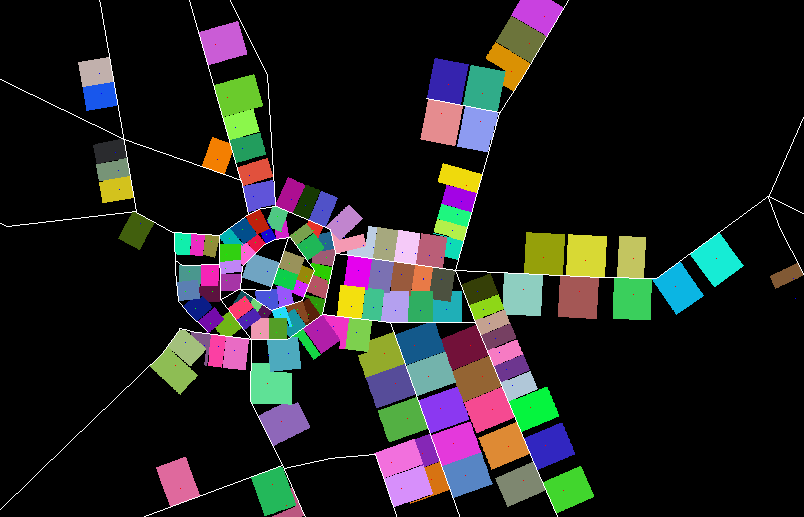
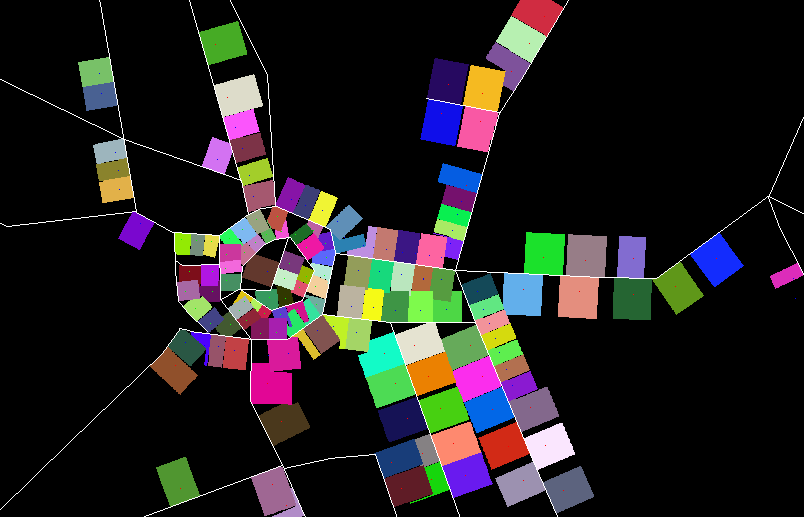
0801

diff --git a/parcel_v2.py b/parcel_v2.py
@@ -1,13 +1,382 @@
 import numpy as np
 import cv2
+from numpy.random import random
 
 
-# 0: Land, 1: Road, 3: Building, 4:Occupied 5: Unavailable
+# 0: Land, 1: Road, 3x: Building, 4:Occupied
 Landmarks: np.ndarray
-Buildings: []
+Buildings = []
+
+
+def load_data_from_png(path):
+    global Landmarks
+
+    img = cv2.imread(path)
+    Landmarks = np.zeros((img.shape[1], img.shape[0]), np.uint8)
+    for x in range(img.shape[1]):
+        for y in range(img.shape[0]):
+            if img[y, x, 0] == 255 and img[y, x, 1] == 0 and img[y, x, 2] == 0:
+                Landmarks[x, y] = 1
+            elif img[y, x, 0] == 0 and img[y, x, 1] == 0 and img[y, x, 2] == 255:
+                Landmarks[x, y] = 3
+            # if img[y, x, 0] == 0 and img[y, x, 1] == 255 and img[y, x, 2] == 0:
+            #     Landmarks[x, y] = 31
+            # elif img[y, x, 0] == 255 and img[y, x, 1] == 0 and img[y, x, 2] == 0:
+            #     Landmarks[x, y] = 32
+            # elif img[y, x, 0] == 0 and img[y, x, 1] == 0 and img[y, x, 2] == 255:
+            #     Landmarks[x, y] = 32
+            # elif img[y, x, 0] == 255 and img[y, x, 1] == 255 and img[y, x, 2] == 255:
+            #     Landmarks[x, y] = 1
+
+
+def GetNodesInRadius(Node, Radius, Type):
+    Result = []
+    DRadius = Radius + 0.3
+    IRadius = int(Radius)
+    CentralCol, CentralRow = Node
+
+    for Row in range(CentralRow - IRadius if CentralRow - IRadius > 0 else 0,
+                     CentralRow + IRadius + 1 if CentralRow + IRadius < Landmarks.shape[1] else Landmarks.shape[1]):
+        RowHalfLength = int(np.sqrt(DRadius * DRadius - (Row - CentralRow) * (Row - CentralRow)))
+        for Col in range(CentralCol - RowHalfLength if CentralCol - RowHalfLength > 0 else 0,
+                         CentralCol + RowHalfLength + 1 if CentralCol + RowHalfLength < Landmarks.shape[0] else
+                         Landmarks.shape[0]):
+            if Landmarks[Col, Row] == Type:
+                Result.append([Col, Row])
+
+    return Result
+
+
+def GetNearestNode(Node, Nodes):
+    MinDistance = 100000.0
+    MinNode = [-1, -1]
+    if len(Nodes) == 0:
+        return MinNode
+    for Col, Row in Nodes:
+        D = Distance(Node, [Col, Row])
+        if D < MinDistance:
+            MinDistance = D
+            MinNode = [Col, Row]
+    return MinNode
+
+
+def Magnitude(Node):
+    return np.sqrt(Node[0] * Node[0] + Node[1] * Node[1])
+
+
+def Normalize(Node):
+    m = Magnitude(Node)
+    return [Node[0] / m, Node[1] / m]
+
+
+def Distance(Node1, Node2):
+    return np.sqrt((Node1[0] - Node2[0]) * (Node1[0] - Node2[0]) +
+                   (Node1[1] - Node2[1]) * (Node1[1] - Node2[1]))
+
+
+def Average(Nodes):
+    if len(Nodes) == 0:
+        return [0, 0]
+    return [sum([x for x, _ in Nodes]) / len(Nodes), sum([y for _, y in Nodes]) / len(Nodes)]
+
+
+def Get8Neighbors(Node):
+    global Landmarks
+    x, y = Landmarks.shape
+    if 0 < Node[0] < x - 1 and 0 < Node[1] < y - 1:
+        return np.array([[Node[0] - 1, Node[1] - 1], [Node[0], Node[1] - 1], [Node[0] + 1, Node[1] - 1],
+                         [Node[0] - 1, Node[1]], [Node[0] + 1, Node[1]],
+                         [Node[0] - 1, Node[1] + 1], [Node[0], Node[1] + 1], [Node[0] + 1, Node[1] + 1]])
+    return np.array([])
+
+
+def Get4Neighbors(Node):
+    global Landmarks
+    x, y = Landmarks.shape
+    if 0 < Node[0] < x - 1 and 0 < Node[1] < y - 1:
+        return np.array(
+            [[Node[0] - 1, Node[1]], [Node[0] + 1, Node[1]], [Node[0], Node[1] - 1], [Node[0], Node[1] + 1]])
+    return np.array([])
+
+
+def CheckIndex(Node):
+    global Landmarks
+    return 0 <= Node[0] < Landmarks.shape[0] and 0 <= Node[1] < Landmarks.shape[1]
+
+
+def GetEndNodes(Nodes, Direction):
+    Center = Average(Nodes)
+    Result = []
+    for Node in Nodes:
+        diff = [Node[0] - Center[0], Node[1] - Center[1]]
+        factor = diff[0] * Direction[0] + diff[1] * Direction[1]
+        Result.append([Node, factor])
+    Result.sort(key=lambda x: x[1])
+    return Result[0][0], Result[-1][0]
+
+
+def LeastSquareLineFitting(Nodes):
+    n = len(Nodes)
+
+    sum_x = sum([x for x, _ in Nodes])
+    sum_x2 = sum([x * x for x, _ in Nodes])
+    p = n * sum_x2 - sum_x * sum_x
+    if p == 0:
+        return [1, 0], 1
+
+    sum_y = sum([y for _, y in Nodes])
+    sum_y2 = sum([y * y for _, y in Nodes])
+    q = n * sum_y2 - sum_y * sum_y
+    if q == 0:
+        return [0, 1], 1
+
+    sum_xy = sum([x * y for x, y in Nodes])
+    r = n * sum_xy - sum_x * sum_y
+    range_x = max([x for x, _ in Nodes]) - min([x for x, _ in Nodes])
+    range_y = max([y for _, y in Nodes]) - min([y for _, y in Nodes])
+    if range_x > range_y:
+        return Normalize([-r/p, 1]), r / p * r / q
+    else:
+        return Normalize([-1, r/q]), r / p * r / q
 
 
 class Building:
-    def __init__(self, id, points):
-        self.id = id
-        self.points = points
+    def __init__(self, Index, Radius, Center):
+        self.Index = Index
+        self.Radius = Radius
+        self.Center = Center
+        self.Nodes = []
+
+        self.__Direction = [0, 1]
+
+        self.__RoadRootNode = [-1, -1]
+        self.__RoadEndNodes = [[-1, -1], [-1, -1]]
+        self.__RoadConqueredDist = [0, 0]
+        self.__RoadTerminalDist = 0
+        self.__RoadEndFlag = [False, False]
+
+        self.__RegionStartNum = 0
+        self.__RegionDirection = [0, 1]
+        self.__RegionConqueredDist = []
+        self.__RegionTerminalDist = []
+        self.__RegionEndFlag = []
+
+    def RoadConquestEnds(self):
+        return self.__RoadEndFlag[0] and self.__RoadEndFlag[1]
+
+    def __RoadConquestCheckDirection(self, Node):
+        Diff = [Node[0] - self.__RoadRootNode[0], Node[1] - self.__RoadRootNode[1]]
+        Factor = Diff[0] * self.__Direction[0] + Diff[1] * self.__Direction[1]
+        return abs(Factor) < 2.5
+
+    def __RoadConquestCheckOcclusion(self, Node, OccupiedMap: dict):
+        global Landmarks
+
+        for i in range(1, int(self.__RoadTerminalDist) // 2):
+            CheckNode = [round(Node[0] + self.__Direction[0] * i),
+                         round(Node[1] + self.__Direction[1] * i)]
+            if CheckIndex(CheckNode) and Landmarks[CheckNode[0], CheckNode[1]] == 4 \
+                    and OccupiedMap[CheckNode[0], CheckNode[1]] != self.Index:
+                return True
+        return False
+
+    def RoadConquestInit(self, OccupiedMap: dict):
+        global Landmarks
+
+        RoadNodes = GetNodesInRadius(self.Center, self.Radius, 1)
+        if len(RoadNodes) == 0:
+            return True
+
+        NearestNode = GetNearestNode(self.Center, RoadNodes)
+        self.__Direction = Normalize([self.Center[0] - NearestNode[0], self.Center[1] - NearestNode[1]])
+        Abs_Dir = [abs(self.__Direction[0]), abs(self.__Direction[1])]
+        self.__RoadTerminalDist = self.Radius * np.sqrt(1 + np.square(min(Abs_Dir[0], Abs_Dir[1])
+                                                                      / max(Abs_Dir[0], Abs_Dir[1])))
+        self.__RoadRootNode = [round(NearestNode[0] + self.__Direction[0]), round(NearestNode[1] + self.__Direction[1])]
+
+        if Landmarks[self.__RoadRootNode[0], self.__RoadRootNode[1]] != 0:
+            return True
+
+        self.__RoadEndNodes[0] = self.__RoadEndNodes[1] = self.__RoadRootNode
+        self.Nodes.append(self.__RoadRootNode)
+        Landmarks[self.__RoadRootNode[0], self.__RoadRootNode[1]] = 4
+        OccupiedMap[self.__RoadRootNode[0], self.__RoadRootNode[1]] = self.Index
+        return False
+
+    def __RoadConquestStep1(self, EndNodeIndex,  OccupiedMap: dict):
+        global Landmarks
+
+        # grow along the road
+        CurrentNode = self.__RoadEndNodes[EndNodeIndex]
+        Neighbors4 = Get4Neighbors(CurrentNode)
+        Node = [-1, -1]
+        for Neighbor in Neighbors4:
+            if Landmarks[Neighbor[0], Neighbor[1]] == 0:
+                Neighbors8 = Get8Neighbors(Neighbor)
+                if len(Neighbors8) > 0 and np.any(Landmarks[Neighbors8[:, 0], Neighbors8[:, 1]] == 1):
+                    Node = Neighbor
+                    break
+        if Node[0] == -1 or not self.__RoadConquestCheckDirection(Node) \
+                or self.__RoadConquestCheckOcclusion(Node, OccupiedMap):
+            return True
+
+        self.Nodes.append(Node)
+        Landmarks[Node[0], Node[1]] = 4
+        OccupiedMap[Node[0], Node[1]] = self.Index
+        self.__RoadEndNodes[EndNodeIndex] = Node
+        self.__RoadConqueredDist[EndNodeIndex] += 1
+
+        if self.__RoadConqueredDist[EndNodeIndex] < int(self.__RoadTerminalDist):
+            return False
+        return True
+
+    def RoadConquestStepN(self, N, OccupiedMap: dict):
+        global Landmarks
+
+        if len(self.Nodes) == 0:
+            return
+
+        for _ in range(N):
+            if not self.__RoadEndFlag[0]:
+                self.__RoadEndFlag[0] = self.__RoadConquestStep1(0, OccupiedMap)
+            if not self.__RoadEndFlag[1]:
+                self.__RoadEndFlag[1] = self.__RoadConquestStep1(1, OccupiedMap)
+            if self.__RoadEndFlag[0] and self.__RoadEndFlag[1]:
+                break
+
+    def RegionConquestEnds(self):
+        return np.all(self.__RegionEndFlag)
+
+    def RegionConquestInit(self):
+        global Landmarks
+
+        self.__RegionEndFlag = [False for _ in self.Nodes]
+        self.__RegionConqueredDist = [0 for _ in self.Nodes]
+        self.__Direction, _ = LeastSquareLineFitting(self.Nodes)
+        self.__RegionStartNum = len(self.Nodes)
+
+        # check if the direction should be reversed
+        Check = np.array([[round(Col + self.__Direction[0]), round(Row + self.__Direction[1])]
+                          for Col, Row in self.Nodes])
+        if np.any(Landmarks[Check[:, 0], Check[:, 1]] == 1):
+            self.__Direction = [-self.__Direction[0], -self.__Direction[1]]
+
+        Center = Average(self.Nodes)
+        self.__RegionTerminalDist = [round(self.Radius * 2 + ((Center[0] - Col) * self.__Direction[0] +
+                                                              (Center[1] - Row) * self.__Direction[1]))
+                                     for Col, Row in self.Nodes]
+
+        return False
+
+    def __RegionConquestStep1(self, EndNodeIndex, OccupiedMap: dict):
+        global Landmarks, img, color
+
+        Length = self.__RegionConqueredDist[EndNodeIndex] + 1
+        Node = [round(self.Nodes[EndNodeIndex][0] + self.__Direction[0] * Length),
+                round(self.Nodes[EndNodeIndex][1] + self.__Direction[1] * Length)]
+        if not CheckIndex(Node):
+            return True
+
+        if Landmarks[Node[0], Node[1]] == 0:
+            self.Nodes.append(Node)
+            Landmarks[Node[0], Node[1]] = 4
+            OccupiedMap[Node[0], Node[1]] = self.Index
+            self.__RegionConqueredDist[EndNodeIndex] += 1
+            img[Node[1], Node[0]] = color[self.__RegionConqueredDist[EndNodeIndex]]
+
+            # avoid crossing the road
+            Neighbors4 = Get4Neighbors(Node)
+            if len(Neighbors4) > 0 and np.sum(Landmarks[Neighbors4[:, 0], Neighbors4[:, 1]] == 1) > 1:
+                return True
+        elif Landmarks[Node[0], Node[1]] == 3 or \
+                (Landmarks[Node[0], Node[1]] == 4 and OccupiedMap[Node[0], Node[1]] == self.Index):
+            self.__RegionConqueredDist[EndNodeIndex] += 1
+        else:
+            return True
+
+        if self.__RegionConqueredDist[EndNodeIndex] < self.__RegionTerminalDist[EndNodeIndex]:
+            return False
+        return True
+
+    def RegionConquestStepN(self, N, OccupiedMap: dict):
+        global Landmarks
+
+        if len(self.Nodes) == 0:
+            return
+
+        for _ in range(N):
+            for i in range(self.__RegionStartNum):
+                if not self.__RegionEndFlag[i]:
+                    self.__RegionEndFlag[i] = self.__RegionConquestStep1(i, OccupiedMap)
+            if np.all(self.__RegionEndFlag):
+                break
+
+
+def RoadConquest(OccupiedMap: dict):
+    global Landmarks
+
+    EndFlag = [False for _ in Buildings]
+    for Building in Buildings:
+        EndFlag[Building.Index] = Building.RoadConquestInit(OccupiedMap)
+
+    while True:
+        for Building in Buildings:
+            if not EndFlag[Building.Index]:
+                Building.RoadConquestStepN(1, OccupiedMap)
+                EndFlag[Building.Index] = Building.RoadConquestEnds()
+        if np.all(EndFlag):
+            break
+
+
+def RegionConquest(OccupiedMap: dict):
+    global Landmarks, img, color
+
+    EndFlag = [False for _ in Buildings]
+    for Building in Buildings:
+        EndFlag[Building.Index] = Building.RegionConquestInit()
+
+    # for Key, Value in hashmap.items():
+    #     img[Key[1], Key[0]] = color[Value]
+    # cv2.imshow('img', cv2.resize(img, (img.shape[1] * 5, img.shape[0] * 5), interpolation=cv2.INTER_NEAREST))
+    # cv2.waitKey(0)
+
+    while True:
+        for Building in Buildings:
+            if not EndFlag[Building.Index]:
+                Building.RegionConquestStepN(1, OccupiedMap)
+                EndFlag[Building.Index] = Building.RegionConquestEnds()
+                # cv2.imshow('img', cv2.resize(img, (img.shape[1] * 5, img.shape[0] * 5), interpolation=cv2.INTER_NEAREST))
+                # cv2.waitKey(0)
+        if np.all(EndFlag):
+            break
+
+
+if __name__ == '__main__':
+    file = 'parcel.png'
+    load_data_from_png(file)
+    img = cv2.imread(file)
+    hashmap = dict()
+
+    buildings = np.where(Landmarks == 3)
+    size = len(buildings[0])
+    color = [np.uint8([random() * 255, random() * 255, random() * 255]) for i in range(size)]
+
+    radius = 15
+    target = range(size)
+    # target = [48]
+    for i, x in enumerate(target):
+        Buildings.append(Building(i, radius, [buildings[0][x], buildings[1][x]]))
+
+    RoadConquest(hashmap)
+    RegionConquest(hashmap)
+
+    for Key, Value in hashmap.items():
+        img[Key[1], Key[0]] = color[Value]
+
+    # for Building in Buildings:
+    #     for Node in Building.Nodes:
+    #         img[Node[1], Node[0]] = color[Building.Index]
+
+    img = cv2.resize(img, (img.shape[1] * 5, img.shape[0] * 5), interpolation=cv2.INTER_NEAREST)
+    cv2.imshow('img', img)
+    cv2.waitKey(0)

diff --git a/parcel.py b/parcel.py
@@ -2,6 +2,7 @@ import numpy as np
 import cv2
 from numpy.random import random
 
+
 # 0: Land, 1: Road, 2: Cross, 3: Building, 4: Unavailable
 Landmarks: np.ndarray
 Parcels = []
